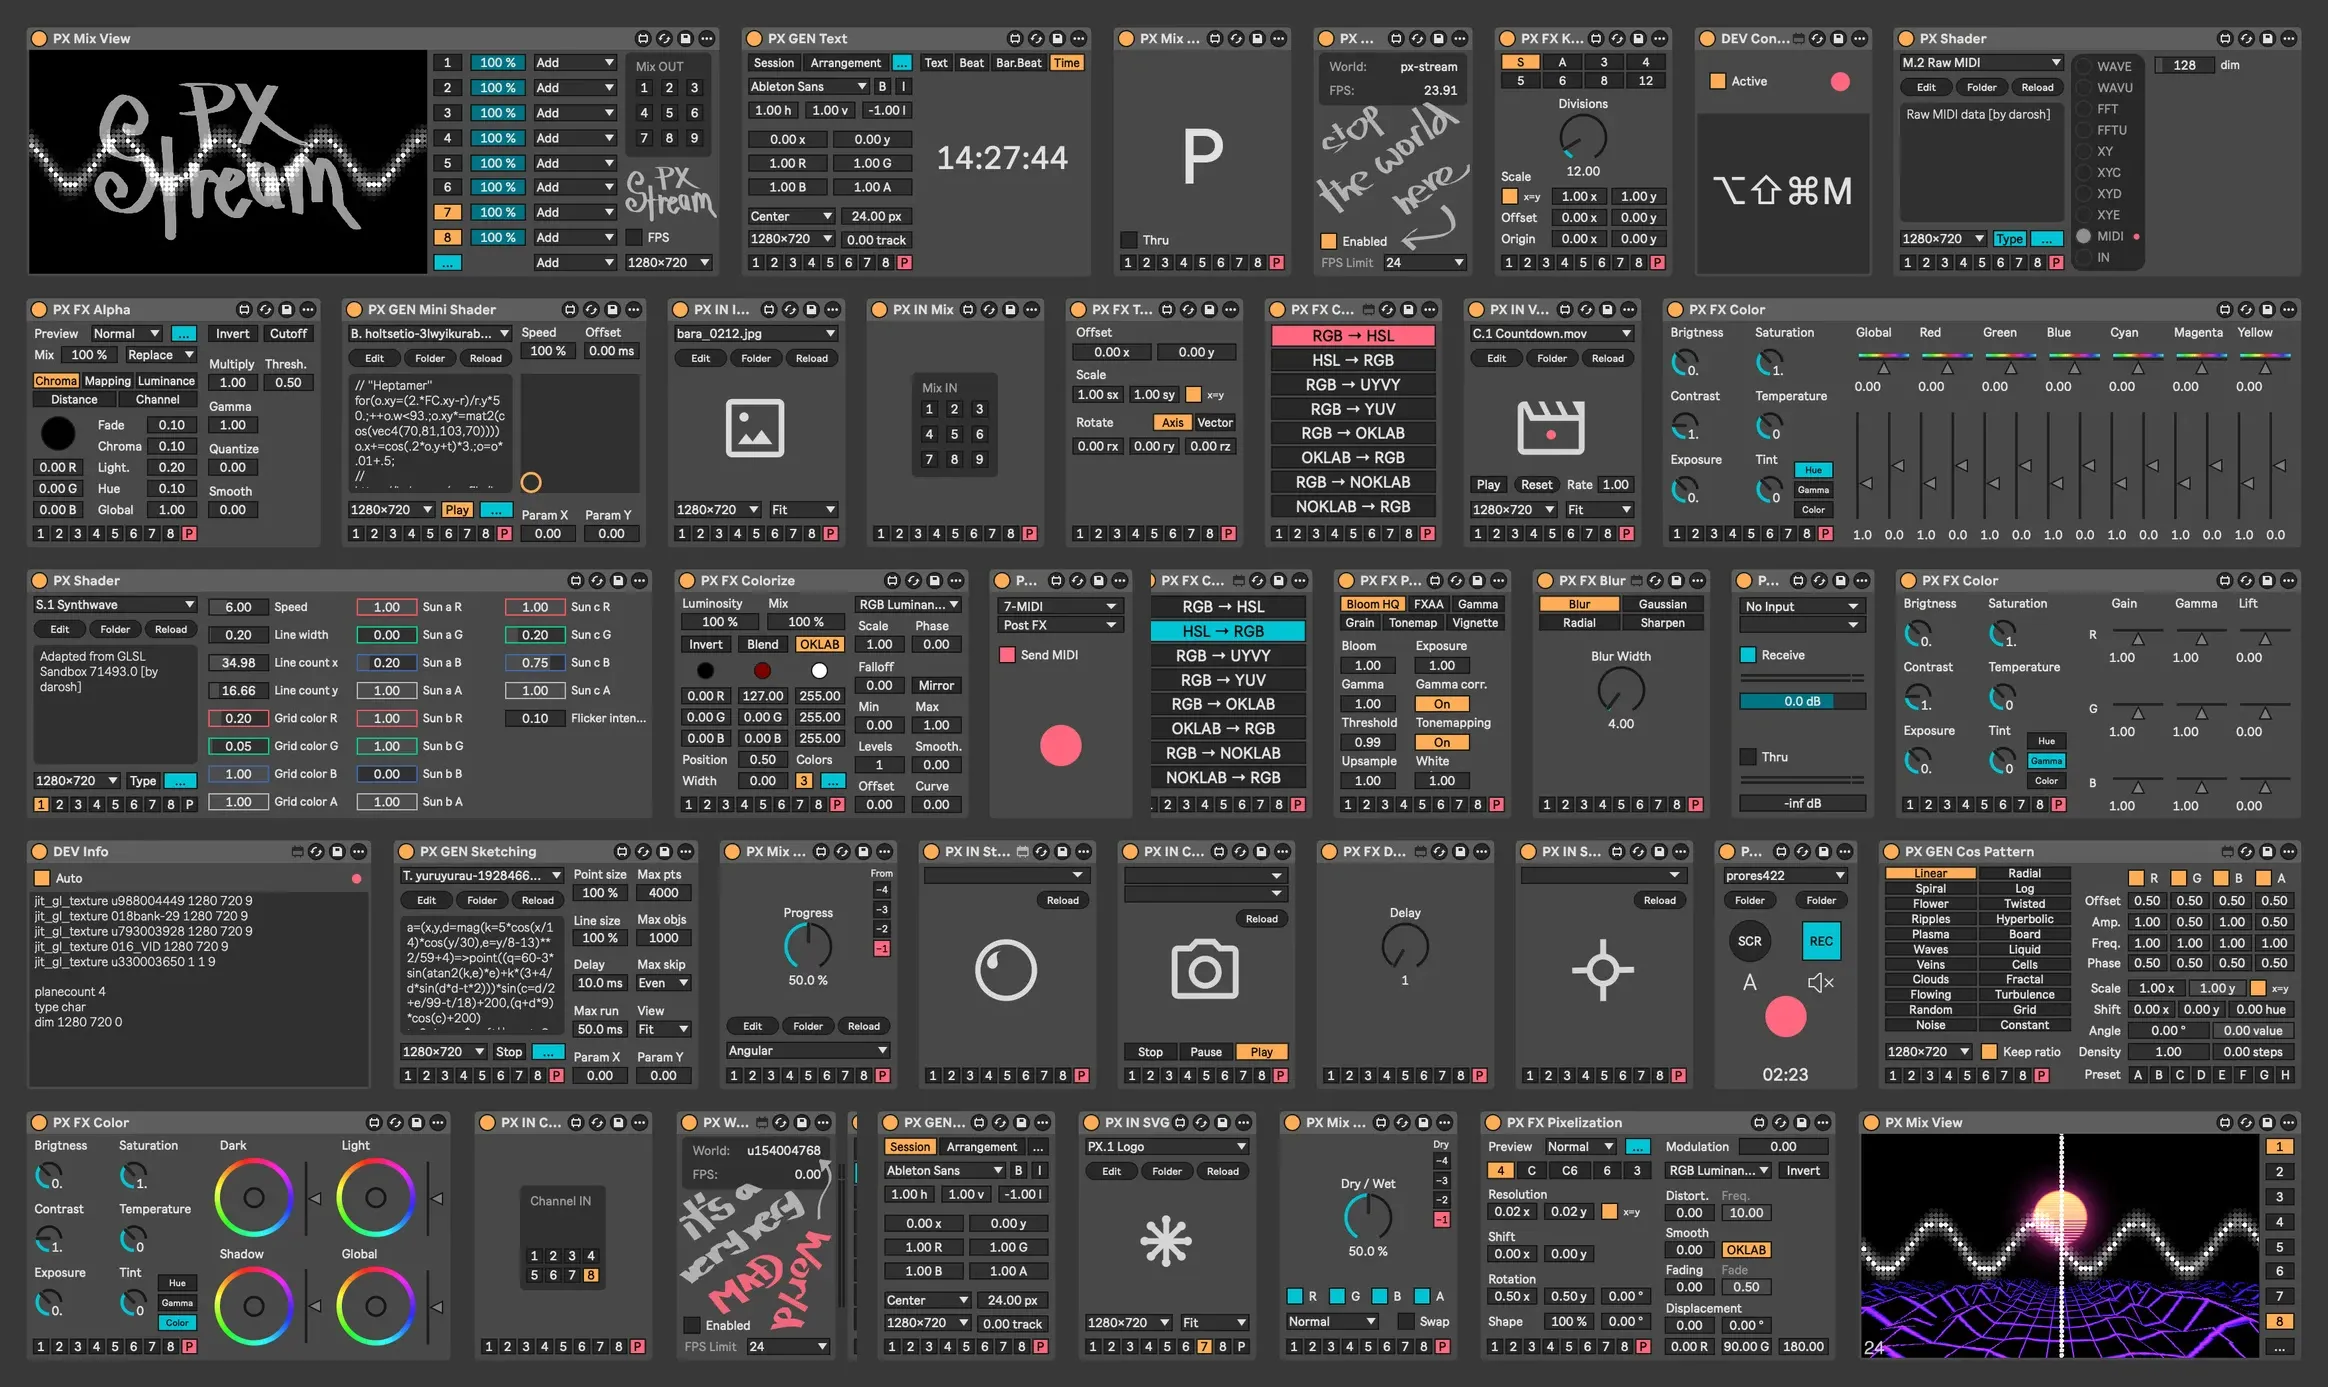
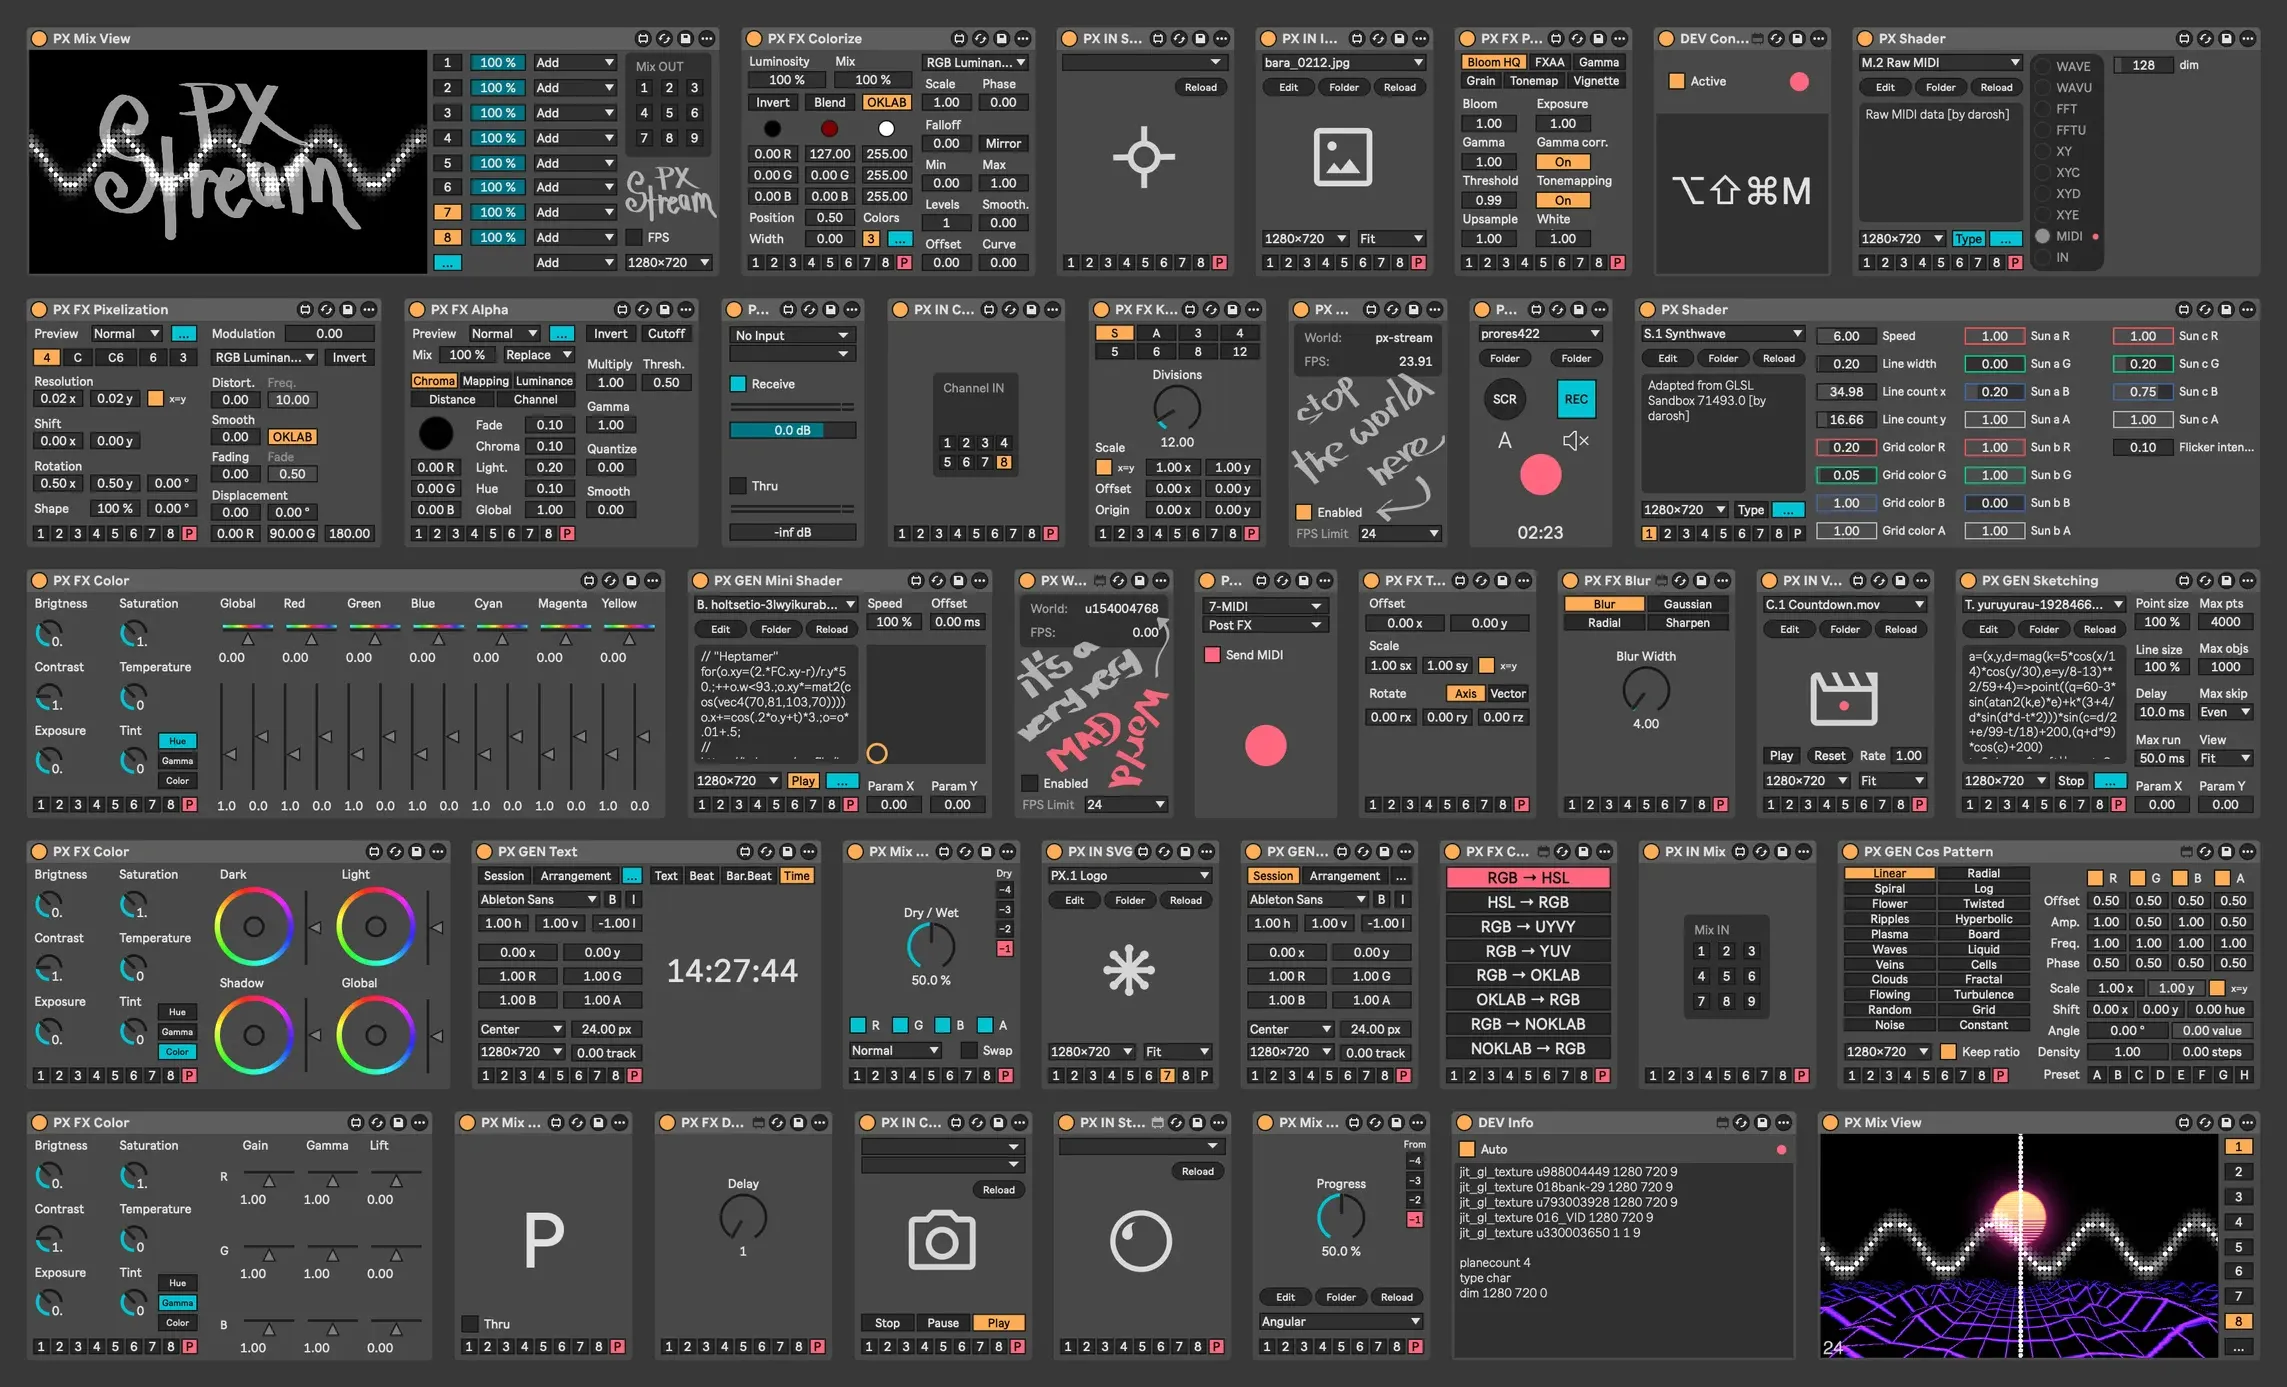
spout screenshots/doc update

Changed region(s): [[0.0, 0.0, 0.9934, 0.9921], [0.9624, 0.8061, 0.9934, 0.8371], [0.031, 0.0, 0.0621, 0.031]]

diff --git a/scripts/doc.js b/scripts/doc.js
@@ -164,13 +164,13 @@ async function createCollage () {
   const totalHeight = rows * rowHeight + (rows - 1) * spacing
 
   // Reorder rows
-  // rowImages = [
-  //   rowImages[2],
-  //   rowImages[0],
-  //   rowImages[1],
-  //   rowImages[4],
-  //   rowImages[3]
-  // ]
+  rowImages = [
+    rowImages[2],
+    rowImages[0],
+    rowImages[1],
+    rowImages[4],
+    rowImages[3]
+  ]
 
   // for (let rowIndex = 1; rowIndex < rowImages.length; rowIndex += 2) {
   //   const t = rowImages[rowIndex]

diff --git a/scripts/screenshots.conf.js b/scripts/screenshots.conf.js
@@ -29,8 +29,8 @@ export default {
     [3, 'DEV Info', 528],
     [3, 'DEV Console', 276],
     [3, 'PX FX Convert', 276],
-    [3, 'PX FX Convert (convert back)', 276, true],
     [3, 'PX World (mad world)', 248],
+    // [3, 'PX FX Convert (convert back)', 276, true],
     [4, 'PX FX Color', 648],
     [4, 'PX FX Color (gamma)', 620],
     [4, 'PX FX Color (hue)', 972],

diff --git a/README.md b/README.md
@@ -15,46 +15,45 @@
 
 <!-- begin: collage -->
 <div>
-    <a href="#px-mix-view"><img src="./docs/media/devices/PX_Mix_View_(expanded).webp" title="PX Mix View" width="249"/></a>
-    <a href="#gen-text"><img src="./docs/media/devices/PX_GEN_Text_(expanded).webp" title="GEN Text" width="127"/></a>
-    <a href="#px-mix-channel"><img src="./docs/media/devices/PX_Mix_Channel.webp" title="PX Mix Channel" width="65"/></a>
-    <a href="#px-world"><img src="./docs/media/devices/PX_World.webp" title="PX World" width="58"/></a>
-    <a href="#fx-kaleidoscope"><img src="./docs/media/devices/PX_FX_Kaleidoscope.webp" title="FX Kaleidoscope" width="65"/></a>
-    <a href="#dev-console"><img src="./docs/media/devices/DEV_Console.webp" title="DEV Console" width="65"/></a>
-    <a href="#px-shader"><img src="./docs/media/devices/PX_Shader_(types).webp" title="PX Shader" width="147"/></a>
-    <a href="#fx-alpha"><img src="./docs/media/devices/PX_FX_Alpha.webp" title="FX Alpha" width="107"/></a>
-    <a href="#gen-mini-shader"><img src="./docs/media/devices/PX_GEN_Mini_Shader.webp" title="GEN Mini Shader" width="111"/></a>
-    <a href="#in-image"><img src="./docs/media/devices/PX_IN_Image.webp" title="IN Image" width="65"/></a>
-    <a href="#in-mix"><img src="./docs/media/devices/PX_IN_Mix.webp" title="IN Mix" width="65"/></a>
-    <a href="#fx-transform"><img src="./docs/media/devices/PX_FX_Transform.webp" title="FX Transform" width="65"/></a>
-    <a href="#fx-convert"><img src="./docs/media/devices/PX_FX_Convert.webp" title="FX Convert" width="65"/></a>
-    <a href="#in-video"><img src="./docs/media/devices/PX_IN_Video.webp" title="IN Video" width="65"/></a>
-    <a href="#fx-color"><img src="./docs/media/devices/PX_FX_Color_(hue).webp" title="FX Color" width="230"/></a>
-    <a href="#px-shader"><img src="./docs/media/devices/PX_Shader.webp" title="PX Shader" width="225"/></a>
-    <a href="#fx-colorize"><img src="./docs/media/devices/PX_FX_Colorize.webp" title="FX Colorize" width="107"/></a>
-    <a href="#px-route-midi"><img src="./docs/media/devices/PX_Route_MIDI_(linked).webp" title="PX Route MIDI" width="53"/></a>
-    <a href="#px-world"><img src="./docs/media/devices/PX_World_(mad_world).webp" title="PX World" width="58"/></a>
-    <a href="#fx-pass"><img src="./docs/media/devices/PX_FX_Pass.webp" title="FX Pass" width="65"/></a>
-    <a href="#fx-blur"><img src="./docs/media/devices/PX_FX_Blur.webp" title="FX Blur" width="65"/></a>
-    <a href="#px-route-audio"><img src="./docs/media/devices/PX_Route_Audio.webp" title="PX Route Audio" width="53"/></a>
-    <a href="#fx-color"><img src="./docs/media/devices/PX_FX_Color_(gamma).webp" title="FX Color" width="147"/></a>
-    <a href="#dev-info"><img src="./docs/media/devices/DEV_Info.webp" title="DEV Info" width="125"/></a>
-    <a href="#gen-sketching"><img src="./docs/media/devices/PX_GEN_Sketching.webp" title="GEN Sketching" width="111"/></a>
-    <a href="#px-mix-transition"><img src="./docs/media/devices/PX_Mix_Transition.webp" title="PX Mix Transition" width="65"/></a>
-    <a href="#in-stream"><img src="./docs/media/devices/PX_IN_Stream_(Spout).webp" title="IN Stream" width="65"/></a>
-    <a href="#in-cam"><img src="./docs/media/devices/PX_IN_Cam.webp" title="IN Cam" width="65"/></a>
-    <a href="#fx-delay"><img src="./docs/media/devices/PX_FX_Delay.webp" title="FX Delay" width="65"/></a>
-    <a href="#in-stream"><img src="./docs/media/devices/PX_IN_Stream_(Syphon).webp" title="IN Stream" width="65"/></a>
-    <a href="#px-rec"><img src="./docs/media/devices/PX_Rec.webp" title="PX Rec" width="53"/></a>
-    <a href="#gen-cos-pattern"><img src="./docs/media/devices/PX_GEN_Cos_Pattern.webp" title="GEN Cos Pattern" width="153"/></a>
-    <a href="#fx-color"><img src="./docs/media/devices/PX_FX_Color.webp" title="FX Color" width="153"/></a>
-    <a href="#in-channel"><img src="./docs/media/devices/PX_IN_Channel.webp" title="IN Channel" width="65"/></a>
-    <a href="#fx-convert"><img src="./docs/media/devices/PX_FX_Convert_(convert_back).webp" title="FX Convert" width="65"/></a>
-    <a href="#gen-text"><img src="./docs/media/devices/PX_GEN_Text.webp" title="GEN Text" width="65"/></a>
-    <a href="#in-svg"><img src="./docs/media/devices/PX_IN_SVG.webp" title="IN SVG" width="65"/></a>
-    <a href="#px-mix-dry"><img src="./docs/media/devices/PX_Mix_Dry.webp" title="PX Mix Dry" width="65"/></a>
-    <a href="#fx-pixelization"><img src="./docs/media/devices/PX_FX_Pixelization.webp" title="FX Pixelization" width="128"/></a>
-    <a href="#px-mix-view"><img src="./docs/media/devices/PX_Mix_View.webp" title="PX Mix View" width="160"/></a>
+    <a href="#px-mix-view"><img src="./docs/media/devices/PX_Mix_View_(expanded).webp" title="PX Mix View" width="253"/></a>
+    <a href="#fx-colorize"><img src="./docs/media/devices/PX_FX_Colorize.webp" title="FX Colorize" width="109"/></a>
+    <a href="#in-stream"><img src="./docs/media/devices/PX_IN_Stream_(Syphon).webp" title="IN Stream" width="66"/></a>
+    <a href="#in-image"><img src="./docs/media/devices/PX_IN_Image.webp" title="IN Image" width="66"/></a>
+    <a href="#fx-pass"><img src="./docs/media/devices/PX_FX_Pass.webp" title="FX Pass" width="66"/></a>
+    <a href="#dev-console"><img src="./docs/media/devices/DEV_Console.webp" title="DEV Console" width="66"/></a>
+    <a href="#px-shader"><img src="./docs/media/devices/PX_Shader_(types).webp" title="PX Shader" width="150"/></a>
+    <a href="#fx-pixelization"><img src="./docs/media/devices/PX_FX_Pixelization.webp" title="FX Pixelization" width="131"/></a>
+    <a href="#fx-alpha"><img src="./docs/media/devices/PX_FX_Alpha.webp" title="FX Alpha" width="109"/></a>
+    <a href="#px-route-audio"><img src="./docs/media/devices/PX_Route_Audio.webp" title="PX Route Audio" width="54"/></a>
+    <a href="#in-channel"><img src="./docs/media/devices/PX_IN_Channel.webp" title="IN Channel" width="66"/></a>
+    <a href="#fx-kaleidoscope"><img src="./docs/media/devices/PX_FX_Kaleidoscope.webp" title="FX Kaleidoscope" width="66"/></a>
+    <a href="#px-world"><img src="./docs/media/devices/PX_World.webp" title="PX World" width="60"/></a>
+    <a href="#px-rec"><img src="./docs/media/devices/PX_Rec.webp" title="PX Rec" width="54"/></a>
+    <a href="#px-shader"><img src="./docs/media/devices/PX_Shader.webp" title="PX Shader" width="229"/></a>
+    <a href="#fx-color"><img src="./docs/media/devices/PX_FX_Color_(hue).webp" title="FX Color" width="234"/></a>
+    <a href="#gen-mini-shader"><img src="./docs/media/devices/PX_GEN_Mini_Shader.webp" title="GEN Mini Shader" width="113"/></a>
+    <a href="#px-world"><img src="./docs/media/devices/PX_World_(mad_world).webp" title="PX World" width="60"/></a>
+    <a href="#px-route-midi"><img src="./docs/media/devices/PX_Route_MIDI_(linked).webp" title="PX Route MIDI" width="54"/></a>
+    <a href="#fx-transform"><img src="./docs/media/devices/PX_FX_Transform.webp" title="FX Transform" width="66"/></a>
+    <a href="#fx-blur"><img src="./docs/media/devices/PX_FX_Blur.webp" title="FX Blur" width="66"/></a>
+    <a href="#in-video"><img src="./docs/media/devices/PX_IN_Video.webp" title="IN Video" width="66"/></a>
+    <a href="#gen-sketching"><img src="./docs/media/devices/PX_GEN_Sketching.webp" title="GEN Sketching" width="113"/></a>
+    <a href="#fx-color"><img src="./docs/media/devices/PX_FX_Color.webp" title="FX Color" width="156"/></a>
+    <a href="#gen-text"><img src="./docs/media/devices/PX_GEN_Text_(expanded).webp" title="GEN Text" width="129"/></a>
+    <a href="#px-mix-dry"><img src="./docs/media/devices/PX_Mix_Dry.webp" title="PX Mix Dry" width="66"/></a>
+    <a href="#in-svg"><img src="./docs/media/devices/PX_IN_SVG.webp" title="IN SVG" width="66"/></a>
+    <a href="#gen-text"><img src="./docs/media/devices/PX_GEN_Text.webp" title="GEN Text" width="66"/></a>
+    <a href="#fx-convert"><img src="./docs/media/devices/PX_FX_Convert.webp" title="FX Convert" width="66"/></a>
+    <a href="#in-mix"><img src="./docs/media/devices/PX_IN_Mix.webp" title="IN Mix" width="66"/></a>
+    <a href="#gen-cos-pattern"><img src="./docs/media/devices/PX_GEN_Cos_Pattern.webp" title="GEN Cos Pattern" width="155"/></a>
+    <a href="#fx-color"><img src="./docs/media/devices/PX_FX_Color_(gamma).webp" title="FX Color" width="149"/></a>
+    <a href="#px-mix-channel"><img src="./docs/media/devices/PX_Mix_Channel.webp" title="PX Mix Channel" width="66"/></a>
+    <a href="#fx-delay"><img src="./docs/media/devices/PX_FX_Delay.webp" title="FX Delay" width="66"/></a>
+    <a href="#in-cam"><img src="./docs/media/devices/PX_IN_Cam.webp" title="IN Cam" width="66"/></a>
+    <a href="#in-stream"><img src="./docs/media/devices/PX_IN_Stream_(Spout).webp" title="IN Stream" width="66"/></a>
+    <a href="#px-mix-transition"><img src="./docs/media/devices/PX_Mix_Transition.webp" title="PX Mix Transition" width="66"/></a>
+    <a href="#dev-info"><img src="./docs/media/devices/DEV_Info.webp" title="DEV Info" width="127"/></a>
+    <a href="#px-mix-view"><img src="./docs/media/devices/PX_Mix_View.webp" title="PX Mix View" width="163"/></a>
 </div>
 <!-- end: collage -->
 
